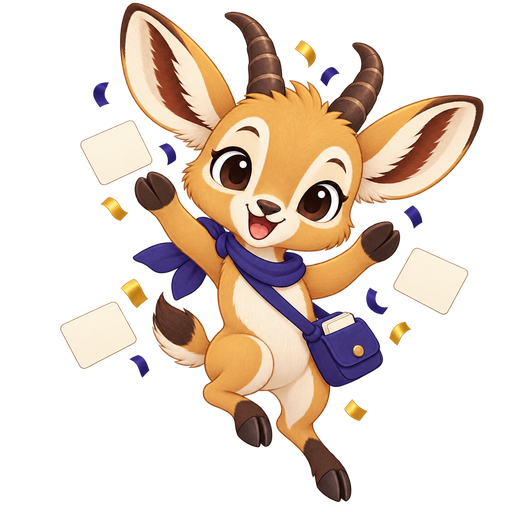
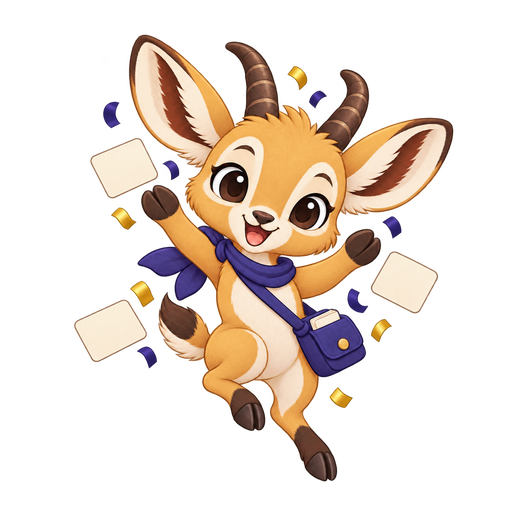
Improve Ankilope celebration framing
Preserve the celebration pose with clear ear and horn margins. Keep card and add-on export sizes unchanged. Reviewed the final art and diff; all CI checks pass and all 38 generated Android WebPs match merged Android main byte for byte.

Assisted-by: Codex (GPT-6)

Changed region(s): [[0.1562, 0.0, 0.9688, 1.0], [0.0938, 0.625, 0.2188, 0.7188]]

diff --git a/docs/ankilope-celebrate-review/README.md b/docs/ankilope-celebrate-review/README.md
@@ -1,0 +1,20 @@
+# Ankilope celebration framing
+
+Issue #88 asks for more room above the ear. The revised transparent 1254px
+master keeps Ankilope's joyful jumping pose, indigo scarf and satchel, blank
+flashcards and confetti. At alpha above 16, the top margin grows from 6px to
+84px and the bottom margin from 24px to 74px.
+
+The exact built-in image_gen edit prompt is recorded in `../aki-prompts.json`.
+The input was `static/ankilope/celebrate.png` at server commit
+`2038ae27b34ad4841096764b7e9e405b1e6c0af8`. This is a generated revision, not a
+pixel-identical rescale. Every client variant derives from this same master:
+the card PNG stays 512px and the desktop add-on PNG stays 256px, resized with
+Pillow's Lanczos filter and saved as optimized PNGs. Their decoded pixels match
+those resizes exactly; [export hashes](exports.json) record the files. Android
+uses the existing 336px WebP exporter.
+
+[Before/after](review.png) shows the PNGs at 128px and 64px on light and dark
+backgrounds. Both full-size composites were also inspected. See
+[alpha bounds](measurements.json); very low-alpha pixels are reported separately
+so raw preview fringes are not mistaken for opaque content.
